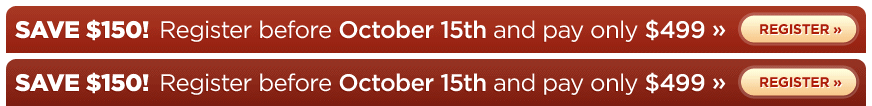
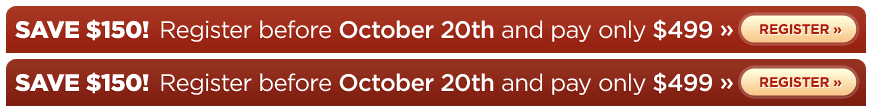
updated discount pricing dates and images.

Changed region(s): [[0.4954, 0.6792, 0.867, 0.9057], [0.4954, 0.1698, 0.867, 0.3962]]

diff --git a/2008/washingtondc/index.html b/2008/washingtondc/index.html
@@ -69,14 +69,14 @@
         </div><!-- end #header -->
         
         <div id="content">
-            <a href="http://sidebar.eventwax.com/sidebar-workshop-washington-dc/register" id="callout" title="Register now! &raquo;">Save $150! Register before October 15th and pay only $499 &raquo;</a>
+            <a href="http://sidebar.eventwax.com/sidebar-workshop-washington-dc/register" id="callout" title="Register now! &raquo;">Save $150! Register before October 20th and pay only $499 &raquo;</a>
             
             <div id="register">
                <h2>Register</h2>
                <p><a href="http://sidebar.eventwax.com/sidebar-workshop-washington-dc/register" id="button">
        	           <span id="registration-price">$499</span>
        	           <span id="registration-type">Early Workshop Registration
-       	               <span class="hidden">(</span><span id="discount-notice">$649 after October 15th</span><span class="hidden">).</span>
+       	               <span class="hidden">(</span><span id="discount-notice">$649 after October 20th</span><span class="hidden">).</span>
        	           </span>
        	           <span id="register-now">Register now! &raquo;</span></a></p>
        	       <p><img src="/css/images/logo-eventwax.png" width="121" height="64" alt="Logo Eventwax" />Our signup process is handled by <strong>EventWax</strong>, and excellent bit of software from our friends at <strong>Vivabit</strong>, used for events around the world including the popular <strong>@media</strong> conferences. Payments are handled by <strong>Paypal</strong>&mdash;and don&rsquo;t worry, you can register without a Paypal account.</p>
